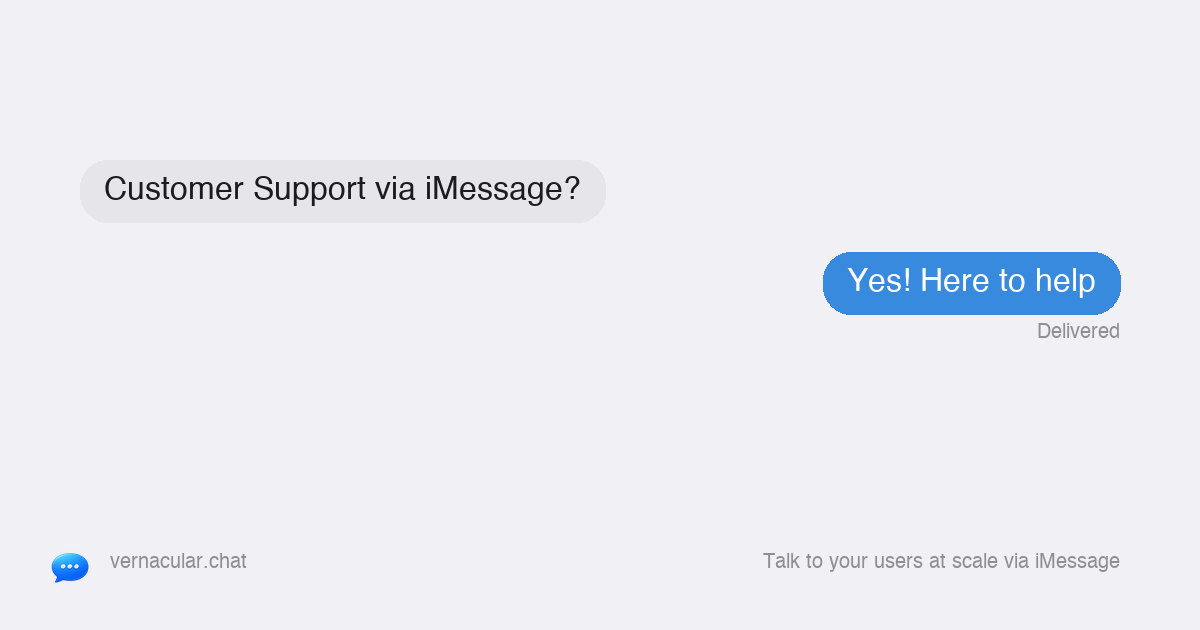
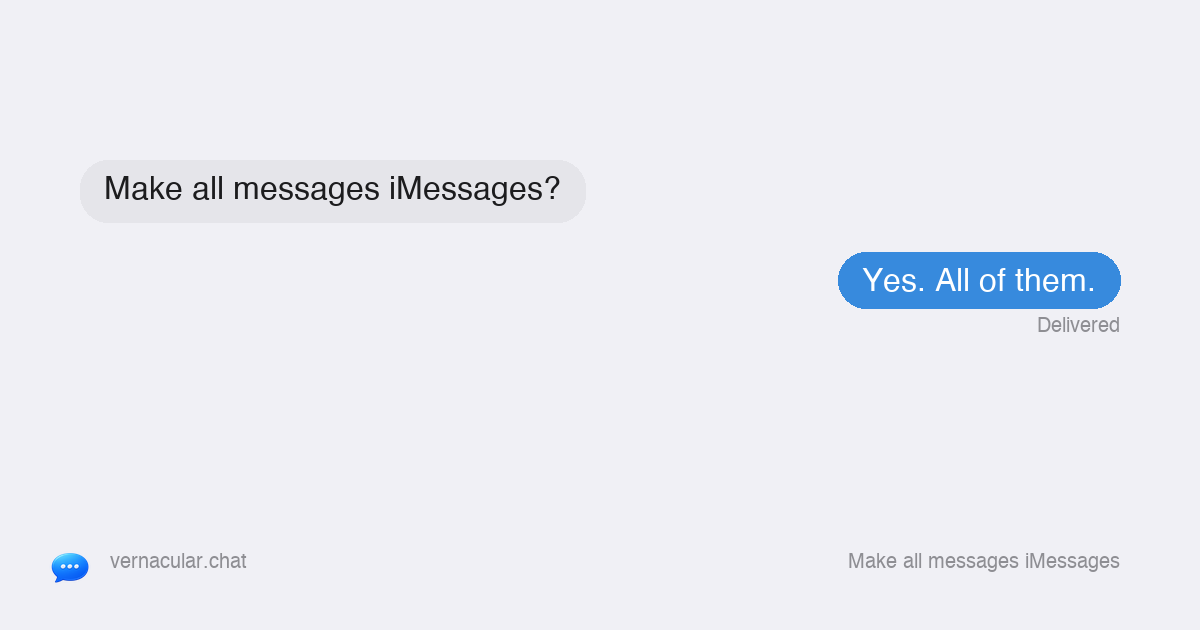
Real conversations, OG rebrand, remove mock data
- OG image: "Make all messages iMessages?" / "Yes. All of them."
- Meta title: "Vernacular — Make all messages iMessages"
- Meta description: "Make all messages iMessages"
- Conversations now load real data from Supabase (Tyler Alesso etc.)
- Removed mock Sarah Chen / Marcus Williams / David Kim conversations
- New API: GET /api/conversations/list — fetches real conversations
  with contacts and messages from Supabase
- Summary view uses real conversation data
- Smart 3-state phone status: Online/Active/Offline
- 30-second polling for live status + unread counts
- Unread badge on Conversations nav item

Changed region(s): [[0.6783, 0.3921, 0.9558, 0.5429], [0.0925, 0.2714, 0.4933, 0.3317], [0.6475, 0.8746, 0.925, 0.9048]]

diff --git a/src/app/dashboard/page.tsx b/src/app/dashboard/page.tsx
@@ -142,42 +142,7 @@ const MOCK_CONTACTS: Contact[] = [
   { id: 'c3', name: 'David Kim', initials: 'DK', tag: 'Lead', tagColor: '#2563EB', tagBg: 'rgba(37,99,235,0.1)' },
 ];
 
-const MOCK_CONVERSATIONS: ConversationColumn[] = [
-  {
-    id: 'col-1',
-    contact: MOCK_CONTACTS[0],
-    messages: [
-      { id: 'm1', text: 'Hey Sarah! Just wanted to follow up on the early access program we discussed last week.', direction: 'outgoing', timestamp: '10:24 AM' },
-      { id: 'm2', text: "Hi! Yes, I've been looking forward to this. Our team is really excited about the platform.", direction: 'incoming', timestamp: '10:26 AM' },
-      { id: 'm3', text: "That's great to hear. I can get you set up with a sandbox environment today. How many seats would you need initially?", direction: 'outgoing', timestamp: '10:28 AM' },
-      { id: 'm4', text: "We'd start with 5 seats for the pilot. Can we also get API access for our dev team?", direction: 'incoming', timestamp: '10:31 AM' },
-      { id: 'm5', text: "Absolutely. I'll send over the credentials and documentation this afternoon. The API supports both REST and webhooks.", direction: 'outgoing', timestamp: '10:33 AM' },
-      { id: 'm6', text: "Perfect. Also, quick question — is there SSO support? That's a requirement for us.", direction: 'incoming', timestamp: '10:35 AM' },
-    ],
-  },
-  {
-    id: 'col-2',
-    contact: MOCK_CONTACTS[1],
-    messages: [
-      { id: 'm7', text: "Marcus, welcome aboard! I'm your dedicated account manager. How's the onboarding going so far?", direction: 'outgoing', timestamp: '9:15 AM' },
-      { id: 'm8', text: 'Thanks! We got the team added but having some trouble with the CRM integration. Getting a 403 on the webhook endpoint.', direction: 'incoming', timestamp: '9:22 AM' },
-      { id: 'm9', text: "That's likely a permissions issue with the API key scope. Can you check if the key has write access enabled? It's under Settings > API Keys > Permissions.", direction: 'outgoing', timestamp: '9:25 AM' },
-      { id: 'm10', text: 'Found it — it was set to read-only. Switching to read-write now.', direction: 'incoming', timestamp: '9:30 AM' },
-      { id: 'm11', text: 'That should fix it. Once connected, your contacts will sync automatically every 15 minutes. Let me know if you run into anything else.', direction: 'outgoing', timestamp: '9:32 AM' },
-    ],
-  },
-  {
-    id: 'col-3',
-    contact: MOCK_CONTACTS[2],
-    messages: [
-      { id: 'm12', text: "Hi David, it was great meeting you at the conference. As discussed, here's a quick overview of our platform.", direction: 'outgoing', timestamp: 'Yesterday' },
-      { id: 'm13', text: 'Thanks for reaching out! I showed the demo to my team and they were impressed. What does pricing look like for a 50-person org?', direction: 'incoming', timestamp: 'Yesterday' },
-      { id: 'm14', text: "For that size, you'd be looking at our Pro tier. I can put together a custom proposal — would Tuesday work for a quick call?", direction: 'outgoing', timestamp: 'Yesterday' },
-      { id: 'm15', text: 'Tuesday works. Can you send a calendar invite? david.kim@techcorp.io', direction: 'incoming', timestamp: 'Yesterday' },
-      { id: 'm16', text: "Hi David, just following up on our conversation. I've put together a custom proposal for your team at the Pro tier — $89/seat/mo with volume pricing. I'll include the details in our Tuesday call. Looking forward to it!", direction: 'outgoing', timestamp: '', isAIDraft: true },
-    ],
-  },
-];
+// MOCK_CONVERSATIONS removed — real conversations loaded from Supabase
 
 // ── Nav Config ──────────────────────────────────────────────────────────────
 
@@ -312,8 +277,8 @@ export default function DashboardPage() {
   const [addFormData, setAddFormData] = useState({ first_name: '', last_name: '', phone: '', email: '', company: '', job_title: '', linkedin_url: '', notes: '', tags: '' });
   const importDropdownRef = useRef<HTMLDivElement>(null);
 
-  // Conversations (mock)
-  const [columns, setColumns] = useState<ConversationColumn[]>(MOCK_CONVERSATIONS);
+  // Conversations (loaded from Supabase)
+  const [columns, setColumns] = useState<ConversationColumn[]>([]);
   const [showContactPicker, setShowContactPicker] = useState<string | null>(null);
   const [inputValues, setInputValues] = useState<Record<string, string>>({});
   const [newConvPhone, setNewConvPhone] = useState('');
@@ -560,6 +525,37 @@ export default function DashboardPage() {
           lastMessage: (c.lastMessage as string) || '',
         }));
         setNotionConversations(enriched);
+      }
+    }).catch(() => {});
+
+    // Load real conversations from Supabase
+    fetch(`/api/conversations/list?orgId=${orgId}`).then(r => r.json()).then(data => {
+      if (data.conversations && data.conversations.length > 0) {
+        const realColumns: ConversationColumn[] = data.conversations.map((conv: Record<string, unknown>) => {
+          const contact = conv.contact as Record<string, unknown>;
+          const unreadCount = conv.unreadCount as number;
+          const messages = conv.messages as Record<string, unknown>[];
+          return {
+            id: `real-${conv.conversationId}`,
+            contact: {
+              id: (contact.id as string) || '',
+              name: (contact.name as string) || 'Unknown',
+              initials: (contact.initials as string) || '??',
+              tag: unreadCount > 0 ? 'UNREAD' : 'ACTIVE',
+              tagColor: unreadCount > 0 ? '#EF4444' : '#22C55E',
+              tagBg: unreadCount > 0 ? 'rgba(239,68,68,0.1)' : 'rgba(34,197,94,0.1)',
+              phone: (contact.phone as string) || '',
+            },
+            messages: (messages || []).map((m: Record<string, unknown>) => ({
+              id: m.id as string,
+              text: m.text as string,
+              direction: m.direction as 'outgoing' | 'incoming',
+              timestamp: m.timestamp as string,
+              isAIDraft: m.isAIDraft as boolean | undefined,
+            })),
+          };
+        });
+        setColumns(realColumns);
       }
     }).catch(() => {});
   }, [user]);
@@ -1355,15 +1351,23 @@ export default function DashboardPage() {
 
   // ── Render: Conversations ─────────────────────────────────────────────────
 
-  // Mock data for Summary view
-  const MOCK_SUMMARY_DATA = [
-    { name: 'Sarah Chen', phone: '+1 (415) 555-0121', lastMessage: "Perfect. Also, quick question -- is there SSO support? That's a requirement for us.", status: 'active' as const, lastStep: 'Follow-up sent', responseRate: '92%', actionNeeded: true },
-    { name: 'Marcus Williams', phone: '+1 (212) 555-0198', lastMessage: 'Found it -- it was set to read-only. Switching to read-write now.', status: 'active' as const, lastStep: 'Onboarding support', responseRate: '88%', actionNeeded: false },
-    { name: 'David Kim', phone: '+1 (650) 555-0142', lastMessage: 'Tuesday works. Can you send a calendar invite?', status: 'pending' as const, lastStep: 'Proposal sent', responseRate: '75%', actionNeeded: true },
-    { name: 'Emily Rodriguez', phone: '+1 (305) 555-0177', lastMessage: 'Can you send me the pricing sheet?', status: 'active' as const, lastStep: 'Initial outreach', responseRate: '60%', actionNeeded: true },
-    { name: 'James Park', phone: '+1 (408) 555-0133', lastMessage: "Thanks, we'll review internally and get back to you.", status: 'pending' as const, lastStep: 'Awaiting reply', responseRate: '45%', actionNeeded: false },
-    { name: 'Lisa Chang', phone: '+1 (312) 555-0156', lastMessage: 'Looks good, let me loop in our CTO.', status: 'active' as const, lastStep: 'Follow-up sent', responseRate: '80%', actionNeeded: true },
-  ];
+  // Build summary rows from real conversation columns
+  const realSummaryRows = columns.filter(col => col.contact).map(col => {
+    const contact = col.contact!;
+    const lastMsg = col.messages.length > 0 ? col.messages[col.messages.length - 1] : null;
+    const incomingCount = col.messages.filter(m => m.direction === 'incoming').length;
+    const totalCount = col.messages.length;
+    const rate = totalCount > 0 ? Math.round((incomingCount / totalCount) * 100) : 0;
+    return {
+      name: contact.name,
+      phone: contact.phone || '',
+      lastMessage: lastMsg?.text || 'No messages yet',
+      status: (contact.tag === 'UNREAD' ? 'pending' : 'active') as 'active' | 'pending',
+      lastStep: contact.tag === 'UNREAD' ? 'Awaiting reply' : 'Active',
+      responseRate: `${rate}%`,
+      actionNeeded: contact.tag === 'UNREAD',
+    };
+  });
 
   // Merge Notion conversations into summary data
   const notionSummaryRows = notionConversations.map(c => {
@@ -1380,7 +1384,7 @@ export default function DashboardPage() {
       actionNeeded: needsAction,
     };
   });
-  const SUMMARY_DATA = [...MOCK_SUMMARY_DATA, ...notionSummaryRows];
+  const SUMMARY_DATA = [...realSummaryRows, ...notionSummaryRows];
 
   // Mock data for Schedule view
   const SCHEDULED_BLASTS = [

diff --git a/src/app/api/conversations/list/route.ts b/src/app/api/conversations/list/route.ts
@@ -1,0 +1,104 @@
+import { NextResponse } from 'next/server';
+import { createServiceClient } from '@/lib/supabase';
+
+export async function GET(request: Request) {
+  try {
+    const { searchParams } = new URL(request.url);
+    const orgId = searchParams.get('orgId');
+
+    if (!orgId) {
+      return NextResponse.json({ error: 'orgId required' }, { status: 400 });
+    }
+
+    const supabase = createServiceClient();
+
+    // Get all conversations for this org's stations
+    const { data: stations } = await supabase
+      .from('stations').select('id').eq('organization_id', orgId);
+
+    if (!stations || stations.length === 0) {
+      return NextResponse.json({ conversations: [] });
+    }
+
+    const stationIds = stations.map(s => s.id);
+
+    // Fetch conversations with contact info
+    const { data: conversations } = await supabase
+      .from('conversations')
+      .select('id, station_id, contact_id, status, last_message_at, last_message_preview, unread_count')
+      .in('station_id', stationIds)
+      .order('last_message_at', { ascending: false })
+      .limit(20);
+
+    if (!conversations || conversations.length === 0) {
+      return NextResponse.json({ conversations: [] });
+    }
+
+    // Get contact details
+    const contactIds = [...new Set(conversations.map(c => c.contact_id).filter(Boolean))];
+    const { data: contacts } = await supabase
+      .from('contacts')
+      .select('id, phone, full_name, email, company, tags')
+      .in('id', contactIds);
+
+    const contactMap: Record<string, { phone: string; full_name: string; email: string; company: string; tags: string[] }> = {};
+    (contacts || []).forEach(c => { contactMap[c.id] = c; });
+
+    // Get messages for each conversation
+    const convIds = conversations.map(c => c.id);
+    const { data: messages } = await supabase
+      .from('messages')
+      .select('id, conversation_id, direction, body, status, ai_generated, created_at, sent_at')
+      .in('conversation_id', convIds)
+      .order('created_at', { ascending: true })
+      .limit(500);
+
+    const messagesByConv: Record<string, Array<{
+      id: string; text: string; direction: string; timestamp: string; status: string; isAIDraft: boolean;
+    }>> = {};
+
+    (messages || []).forEach(m => {
+      if (!messagesByConv[m.conversation_id]) messagesByConv[m.conversation_id] = [];
+      const time = m.sent_at || m.created_at;
+      messagesByConv[m.conversation_id].push({
+        id: m.id,
+        text: m.body,
+        direction: m.direction === 'outbound' ? 'outgoing' : 'incoming',
+        timestamp: time ? new Date(time).toLocaleTimeString('en-US', { hour: 'numeric', minute: '2-digit' }) : '',
+        status: m.status,
+        isAIDraft: m.ai_generated,
+      });
+    });
+
+    // Build response
+    const result = conversations.map(conv => {
+      const contact = contactMap[conv.contact_id];
+      const name = contact?.full_name?.trim() || contact?.phone || 'Unknown';
+      const initials = name.startsWith('+') || name.match(/^\d/)
+        ? '##'
+        : name.split(' ').map((w: string) => w[0]).join('').toUpperCase().slice(0, 2);
+
+      return {
+        conversationId: conv.id,
+        contact: {
+          id: conv.contact_id,
+          name,
+          initials,
+          phone: contact?.phone || '',
+          email: contact?.email || '',
+          company: contact?.company || '',
+          tags: contact?.tags || [],
+        },
+        status: conv.status,
+        lastMessageAt: conv.last_message_at,
+        lastMessagePreview: conv.last_message_preview,
+        unreadCount: conv.unread_count || 0,
+        messages: messagesByConv[conv.id] || [],
+      };
+    });
+
+    return NextResponse.json({ conversations: result });
+  } catch (err) {
+    return NextResponse.json({ error: err instanceof Error ? err.message : 'Failed to fetch' }, { status: 500 });
+  }
+}

diff --git a/src/app/layout.tsx b/src/app/layout.tsx
@@ -3,8 +3,8 @@ import { Analytics } from "@vercel/analytics/next";
 import "./globals.css";
 
 export const metadata: Metadata = {
-  title: "Vernacular — iMessage CRM",
-  description: "Talk to your users at scale via iMessage",
+  title: "Vernacular — Make all messages iMessages",
+  description: "Make all messages iMessages",
   icons: {
     icon: [
       { url: "/favicon.ico", sizes: "any" },
@@ -16,8 +16,8 @@ export const metadata: Metadata = {
   manifest: "/site.webmanifest",
   metadataBase: new URL("https://vernacular.chat"),
   openGraph: {
-    title: "Vernacular — iMessage CRM",
-    description: "Talk to your users at scale via iMessage",
+    title: "Vernacular — Make all messages iMessages",
+    description: "Make all messages iMessages",
     url: "https://vernacular.chat",
     siteName: "Vernacular",
     images: [
@@ -25,7 +25,7 @@ export const metadata: Metadata = {
         url: "https://vernacular.chat/og-image.png",
         width: 1200,
         height: 630,
-        alt: "Vernacular — iMessage CRM",
+        alt: "Vernacular — Make all messages iMessages",
         type: "image/png",
       },
     ],
@@ -33,8 +33,8 @@ export const metadata: Metadata = {
   },
   twitter: {
     card: "summary_large_image",
-    title: "Vernacular — iMessage CRM",
-    description: "Talk to your users at scale via iMessage",
+    title: "Vernacular — Make all messages iMessages",
+    description: "Make all messages iMessages",
     images: ["https://vernacular.chat/og-image.png"],
   },
 };
